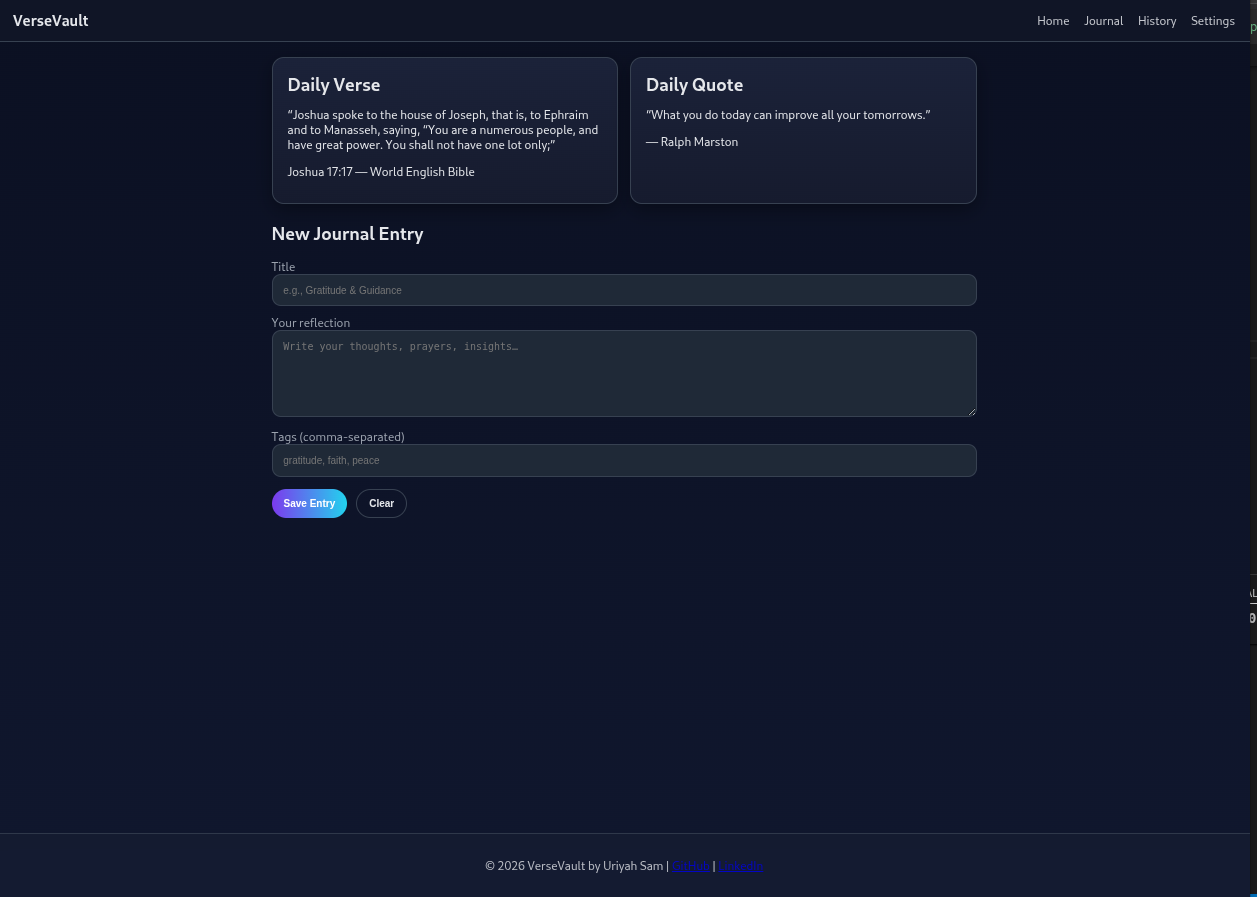
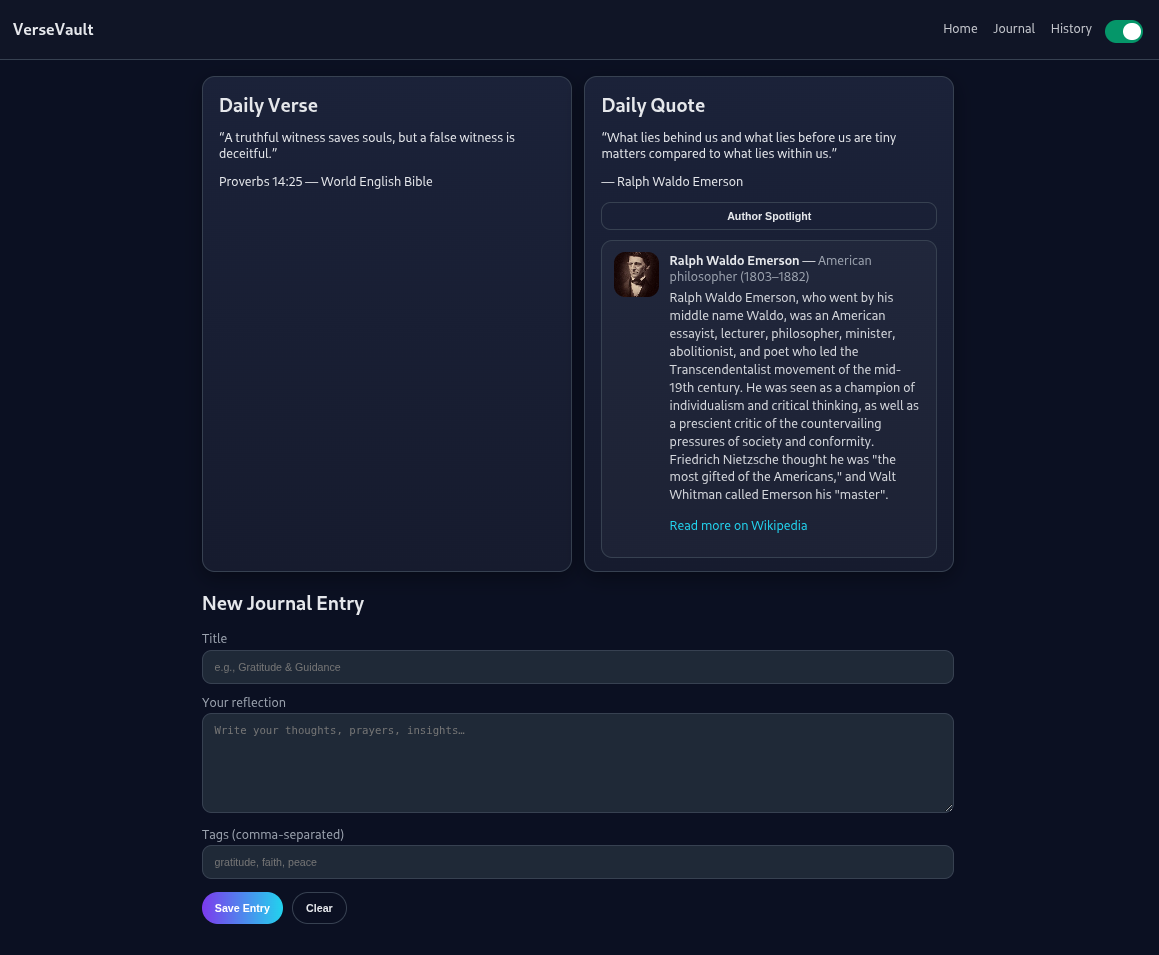
Apdate: README file

diff --git a/README.md b/README.md
@@ -1,7 +1,7 @@
 # 📖 VerseVault
 
-**VerseVault** is a daily Bible verse and inspirational quotes journal web app.  
-It delivers fresh scripture and quotes every day, and allows users to write and store personal reflections — all in one clean, responsive interface.
+**VerseVault** is a daily Bible verse and inspirational journal web application.  
+It provides fresh scripture, motivational quotes, and a focused writing environment for personal reflection — all in a clean, responsive, and accessible interface.
 
 ![VerseVault Screenshot](/src/images/site.png)
 
@@ -9,13 +9,17 @@ It delivers fresh scripture and quotes every day, and allows users to write and 
 
 ## ✨ Features
 
-- 📜 **Daily Bible Verse** — fetched dynamically from [Bible API](https://bible-api.com/)  
-- 💡 **Daily Inspirational Quote** — fetched dynamically from [RandomQuotes API](https://random-quotes-freeapi.vercel.app/api/random)  
-- 📝 **Journal Entry System** — add, edit, and delete personal reflections  
-- 💾 **Local Storage Support** — keeps your entries private in the browser  
-- 🌙 **Dark Mode Toggle** (Settings page)  
-- 📱 **Responsive Design** — works on mobile, tablet, and desktop  
-- ⚡ **Fast and Lightweight** — built with [Vite](https://vitejs.dev/)
+- 📜 **Daily Bible Verse** — fetched dynamically from the Bible API  
+- 💡 **Daily Inspirational Quote** — fetched dynamically from the Quotes API  
+- 👤 **Author Spotlight** — displays biography and image using the Wikipedia API  
+- 📝 **Journal Focus Mode** — distraction-free writing environment  
+- 🔢 **Word Count & Draft Auto-Save** — helps track and preserve writing progress  
+- 💾 **Local Storage Support** — keeps journal entries private in the browser  
+- 🌙 **Dark Mode Toggle** — accessible directly from the header  
+- 📜 **Journal History** — view and manage saved reflections  
+- 📱 **Responsive Design** — optimized for mobile, tablet, and desktop  
+- 🎨 **Enhanced UI Effects** — hover animations, loading shimmer, and toast notifications  
+- ⚡ **Fast and Lightweight** — built with Vite and vanilla JavaScript
 
 ---
 
@@ -25,8 +29,25 @@ It delivers fresh scripture and quotes every day, and allows users to write and 
 - **Build Tool:** Vite  
 - **APIs:**  
   - [Bible API](https://bible-api.com/) — daily scripture  
-  - [RandomQuotes API](https://random-quotes-freeapi.vercel.app/api/random) — daily inspirational quotes  
-- **Hosting:**  Netlify
-  - [Live Site](https://us-versevault.netlify.app/) — Netlify
+  - [RandomQuotes API](https://random-quotes-freeapi.vercel.app/api/random) — inspirational quotes  
+  - [Wikipedia REST API](https://en.wikipedia.org/api/rest_v1/) — author biography and images  
+- **Storage:** Browser LocalStorage  
+- **Hosting:** Netlify  
+  - 🌐 [Live Site](https://us-versevault.netlify.app/)
 
 ---
+
+## 🚀 Getting Started
+
+### Prerequisites
+- Node.js (v16 or higher recommended)
+- npm
+
+### Installation
+
+```bash
+git clone https://github.com/uriyahsam/versevault.git
+cd versevault
+npm install
+
+npm run start ## To launch the site
